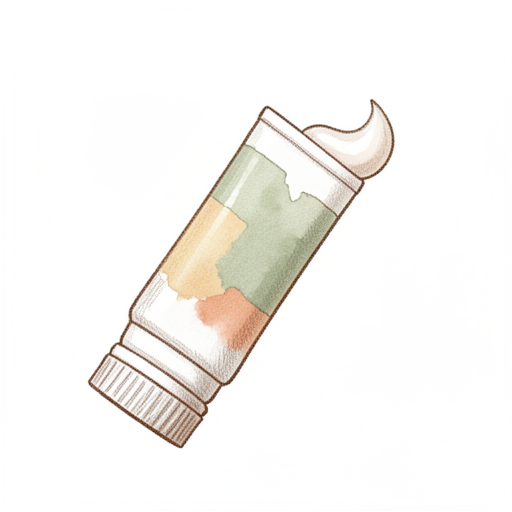
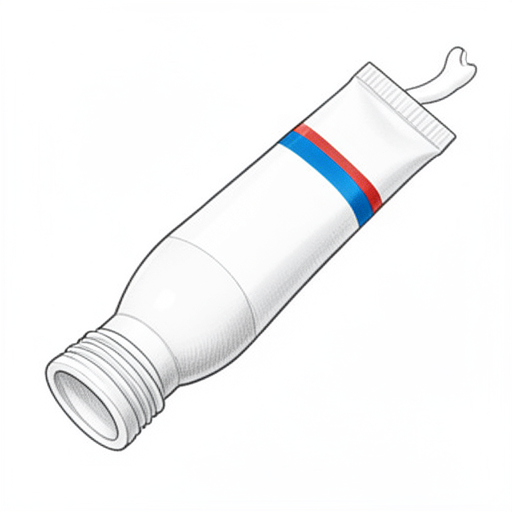
Save generated candidate and queue receipt

Changed region(s): [[0.0625, 0.125, 0.9062, 0.9062], [0.8438, 0.0938, 0.9375, 0.1875]]

diff --git a/data/symbol-white-0.13-arm512/review.html b/data/symbol-white-0.13-arm512/review.html
@@ -1,1 +1,1 @@
-<!doctype html><html lang="sv"><meta charset="utf-8"><title>Bildkandidater</title><style>body{font:16px system-ui;margin:32px;color:#344453;background:white}.cards{display:flex;flex-wrap:wrap;gap:24px}figure{margin:0;width:240px;border:1px solid #ddd;padding:12px}img{width:100%;height:auto}small{color:#666}</style><h1>Bildkandidater</h1><figure><img src="reference.png" alt="Godkänd stilreferens"><figcaption>Stilreferens · se kandidatens metadata för om modellen använder referensbilden som indata.</figcaption></figure><p>Kontrollera handling, händer, borttagning av bakgrund och stil mot referensbilden. Ingen kandidat är publicerad.</p><div class="cards"><figure><img src="FSK_20_29.png" alt="apelsin"><figcaption>apelsin</figcaption><small>Utkast · granskning krävs</small><details><summary>Före friläggning</summary><img src="raw/FSK_20_29.png" alt="Motivet före bakgrundsborttagning"></details></figure><figure><img src="FSK_21_64.png" alt="gem"><figcaption>gem</figcaption><small>Utkast · granskning krävs</small><details><summary>Före friläggning</summary><img src="raw/FSK_21_64.png" alt="Motivet före bakgrundsborttagning"></details></figure><figure><img src="FSK_29_27.png" alt="leksakståg"><figcaption>leksakståg</figcaption><small>Utkast · granskning krävs</small><details><summary>Före friläggning</summary><img src="raw/FSK_29_27.png" alt="Motivet före bakgrundsborttagning"></details></figure><figure><img src="FSK_32_15.png" alt="ekorre"><figcaption>ekorre</figcaption><small>Utkast · granskning krävs</small><details><summary>Före friläggning</summary><img src="raw/FSK_32_15.png" alt="Motivet före bakgrundsborttagning"></details></figure><figure><img src="FSK_32_50.png" alt="skottkärra"><figcaption>skottkärra</figcaption><small>Utkast · granskning krävs</small><details><summary>Före friläggning</summary><img src="raw/FSK_32_50.png" alt="Motivet före bakgrundsborttagning"></details></figure><figure><img src="FSK_32_67.png" alt="pulka"><figcaption>pulka</figcaption><small>Utkast · granskning krävs</small><details><summary>Före friläggning</summary><img src="raw/FSK_32_67.png" alt="Motivet före bakgrundsborttagning"></details></figure><figure><img src="FSK_90_02.png" alt="gå"><figcaption>gå</figcaption><small>Utkast · granskning krävs</small><details><summary>Före friläggning</summary><img src="raw/FSK_90_02.png" alt="Motivet före bakgrundsborttagning"></details></figure><figure><img src="FSK_90_04.png" alt="äta"><figcaption>äta</figcaption><small>Utkast · granskning krävs</small><details><summary>Före friläggning</summary><img src="raw/FSK_90_04.png" alt="Motivet före bakgrundsborttagning"></details></figure><figure><img src="FSK_90_07.png" alt="sitta"><figcaption>sitta</figcaption><small>Utkast · granskning krävs</small><details><summary>Före friläggning</summary><img src="raw/FSK_90_07.png" alt="Motivet före bakgrundsborttagning"></details></figure><figure><img src="FSK_91_09.png" alt="hjälm"><figcaption>hjälm</figcaption><small>Utkast · granskning krävs</small><details><summary>Före friläggning</summary><img src="raw/FSK_91_09.png" alt="Motivet före bakgrundsborttagning"></details></figure><figure><img src="FSK_91_12.png" alt="tallrik"><figcaption>tallrik</figcaption><small>Utkast · granskning krävs</small><details><summary>Före friläggning</summary><img src="raw/FSK_91_12.png" alt="Motivet före bakgrundsborttagning"></details></figure><figure><img src="FSK_91_14.png" alt="sked"><figcaption>sked</figcaption><small>Utkast · granskning krävs</small><details><summary>Före friläggning</summary><img src="raw/FSK_91_14.png" alt="Motivet före bakgrundsborttagning"></details></figure><figure><img src="FSK_91_16.png" alt="kniv"><figcaption>kniv</figcaption><small>Utkast · granskning krävs</small><details><summary>Före friläggning</summary><img src="raw/FSK_91_16.png" alt="Motivet före bakgrundsborttagning"></details></figure><figure><img src="FSK_91_25.png" alt="gurka"><figcaption>gurka</figcaption><small>Utkast · granskning krävs</small><details><summary>Före friläggning</summary><img src="raw/FSK_91_25.png" alt="Motivet före bakgrundsborttagning"></details></figure><figure><img src="FSK_91_54.png" alt="spade"><figcaption>spade</figcaption><small>Utkast · granskning krävs</small><details><summary>Före friläggning</summary><img src="raw/FSK_91_54.png" alt="Motivet före bakgrundsborttagning"></details></figure><figure><img src="FSK_91_56.png" alt="rutschkana"><figcaption>rutschkana</figcaption><small>Utkast · granskning krävs</small><details><summary>Före friläggning</summary><img src="raw/FSK_91_56.png" alt="Motivet före bakgrundsborttagning"></details></figure><figure><img src="FSK_91_60.png" alt="sten"><figcaption>sten</figcaption><small>Utkast · granskning krävs</small><details><summary>Före friläggning</summary><img src="raw/FSK_91_60.png" alt="Motivet före bakgrundsborttagning"></details></figure><figure><img src="FSK_91_69.png" alt="fågel"><figcaption>fågel</figcaption><small>Utkast · granskning krävs</small><details><summary>Före friläggning</summary><img src="raw/FSK_91_69.png" alt="Motivet före bakgrundsborttagning"></details></figure><figure><img src="FSK_92_07.png" alt="springa"><figcaption>springa</figcaption><small>Utkast · granskning krävs</small><details><summary>Före friläggning</summary><img src="raw/FSK_92_07.png" alt="Motivet före bakgrundsborttagning"></details></figure><figure><img src="FSK_92_12.png" alt="gråta"><figcaption>gråta</figcaption><small>Utkast · granskning krävs</small><details><summary>Före friläggning</summary><img src="raw/FSK_92_12.png" alt="Motivet före bakgrundsborttagning"></details></figure></div></html>
+<!doctype html><html lang="sv"><meta charset="utf-8"><title>Bildkandidater</title><style>body{font:16px system-ui;margin:32px;color:#344453;background:white}.cards{display:flex;flex-wrap:wrap;gap:24px}figure{margin:0;width:240px;border:1px solid #ddd;padding:12px}img{width:100%;height:auto}small{color:#666}</style><h1>Bildkandidater</h1><figure><img src="reference.png" alt="Godkänd stilreferens"><figcaption>Stilreferens · se kandidatens metadata för om modellen använder referensbilden som indata.</figcaption></figure><p>Kontrollera handling, händer, borttagning av bakgrund och stil mot referensbilden. Ingen kandidat är publicerad.</p><div class="cards"><figure><img src="FSK_20_29.png" alt="apelsin"><figcaption>apelsin</figcaption><small>Utkast · granskning krävs</small><details><summary>Före friläggning</summary><img src="raw/FSK_20_29.png" alt="Motivet före bakgrundsborttagning"></details></figure><figure><img src="FSK_20_99.png" alt="tandkräm"><figcaption>tandkräm</figcaption><small>Utkast · granskning krävs</small><details><summary>Före friläggning</summary><img src="raw/FSK_20_99.png" alt="Motivet före bakgrundsborttagning"></details></figure><figure><img src="FSK_21_64.png" alt="gem"><figcaption>gem</figcaption><small>Utkast · granskning krävs</small><details><summary>Före friläggning</summary><img src="raw/FSK_21_64.png" alt="Motivet före bakgrundsborttagning"></details></figure><figure><img src="FSK_29_27.png" alt="leksakståg"><figcaption>leksakståg</figcaption><small>Utkast · granskning krävs</small><details><summary>Före friläggning</summary><img src="raw/FSK_29_27.png" alt="Motivet före bakgrundsborttagning"></details></figure><figure><img src="FSK_32_15.png" alt="ekorre"><figcaption>ekorre</figcaption><small>Utkast · granskning krävs</small><details><summary>Före friläggning</summary><img src="raw/FSK_32_15.png" alt="Motivet före bakgrundsborttagning"></details></figure><figure><img src="FSK_32_50.png" alt="skottkärra"><figcaption>skottkärra</figcaption><small>Utkast · granskning krävs</small><details><summary>Före friläggning</summary><img src="raw/FSK_32_50.png" alt="Motivet före bakgrundsborttagning"></details></figure><figure><img src="FSK_32_67.png" alt="pulka"><figcaption>pulka</figcaption><small>Utkast · granskning krävs</small><details><summary>Före friläggning</summary><img src="raw/FSK_32_67.png" alt="Motivet före bakgrundsborttagning"></details></figure><figure><img src="FSK_90_02.png" alt="gå"><figcaption>gå</figcaption><small>Utkast · granskning krävs</small><details><summary>Före friläggning</summary><img src="raw/FSK_90_02.png" alt="Motivet före bakgrundsborttagning"></details></figure><figure><img src="FSK_90_04.png" alt="äta"><figcaption>äta</figcaption><small>Utkast · granskning krävs</small><details><summary>Före friläggning</summary><img src="raw/FSK_90_04.png" alt="Motivet före bakgrundsborttagning"></details></figure><figure><img src="FSK_90_07.png" alt="sitta"><figcaption>sitta</figcaption><small>Utkast · granskning krävs</small><details><summary>Före friläggning</summary><img src="raw/FSK_90_07.png" alt="Motivet före bakgrundsborttagning"></details></figure><figure><img src="FSK_91_09.png" alt="hjälm"><figcaption>hjälm</figcaption><small>Utkast · granskning krävs</small><details><summary>Före friläggning</summary><img src="raw/FSK_91_09.png" alt="Motivet före bakgrundsborttagning"></details></figure><figure><img src="FSK_91_12.png" alt="tallrik"><figcaption>tallrik</figcaption><small>Utkast · granskning krävs</small><details><summary>Före friläggning</summary><img src="raw/FSK_91_12.png" alt="Motivet före bakgrundsborttagning"></details></figure><figure><img src="FSK_91_14.png" alt="sked"><figcaption>sked</figcaption><small>Utkast · granskning krävs</small><details><summary>Före friläggning</summary><img src="raw/FSK_91_14.png" alt="Motivet före bakgrundsborttagning"></details></figure><figure><img src="FSK_91_16.png" alt="kniv"><figcaption>kniv</figcaption><small>Utkast · granskning krävs</small><details><summary>Före friläggning</summary><img src="raw/FSK_91_16.png" alt="Motivet före bakgrundsborttagning"></details></figure><figure><img src="FSK_91_25.png" alt="gurka"><figcaption>gurka</figcaption><small>Utkast · granskning krävs</small><details><summary>Före friläggning</summary><img src="raw/FSK_91_25.png" alt="Motivet före bakgrundsborttagning"></details></figure><figure><img src="FSK_91_54.png" alt="spade"><figcaption>spade</figcaption><small>Utkast · granskning krävs</small><details><summary>Före friläggning</summary><img src="raw/FSK_91_54.png" alt="Motivet före bakgrundsborttagning"></details></figure><figure><img src="FSK_91_56.png" alt="rutschkana"><figcaption>rutschkana</figcaption><small>Utkast · granskning krävs</small><details><summary>Före friläggning</summary><img src="raw/FSK_91_56.png" alt="Motivet före bakgrundsborttagning"></details></figure><figure><img src="FSK_91_60.png" alt="sten"><figcaption>sten</figcaption><small>Utkast · granskning krävs</small><details><summary>Före friläggning</summary><img src="raw/FSK_91_60.png" alt="Motivet före bakgrundsborttagning"></details></figure><figure><img src="FSK_91_69.png" alt="fågel"><figcaption>fågel</figcaption><small>Utkast · granskning krävs</small><details><summary>Före friläggning</summary><img src="raw/FSK_91_69.png" alt="Motivet före bakgrundsborttagning"></details></figure><figure><img src="FSK_92_07.png" alt="springa"><figcaption>springa</figcaption><small>Utkast · granskning krävs</small><details><summary>Före friläggning</summary><img src="raw/FSK_92_07.png" alt="Motivet före bakgrundsborttagning"></details></figure><figure><img src="FSK_92_12.png" alt="gråta"><figcaption>gråta</figcaption><small>Utkast · granskning krävs</small><details><summary>Före friläggning</summary><img src="raw/FSK_92_12.png" alt="Motivet före bakgrundsborttagning"></details></figure></div></html>
